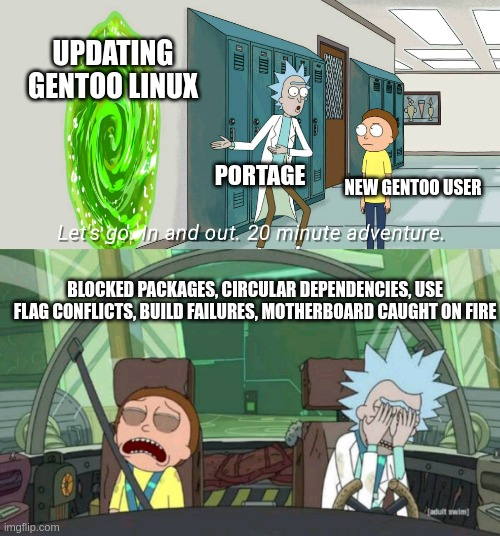
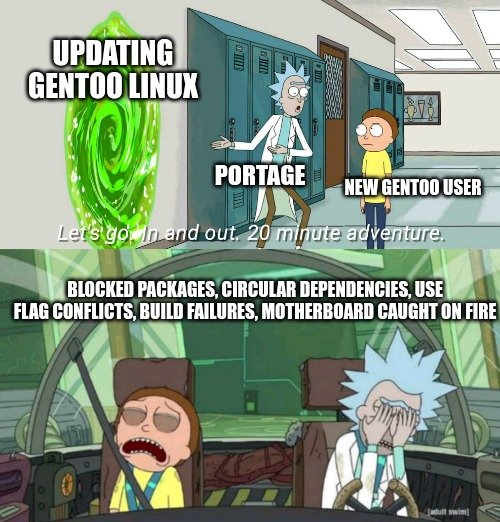
gsoc2023/gentoo_update.md: stylistic changes and typo fixes
Also cropped the meme a bit

diff --git a/content/blog/gsoc2023/gentoo_update_intro.md b/content/blog/gsoc2023/gentoo_update_intro.md
@@ -11,7 +11,7 @@ ShowToc: true
 ---
 
 ### Introduction
-`gentoo_udpate` (Github [repo](https://github.com/Lab-Brat/gentoo_update)) 
+`gentoo_update` (Github [repo](https://github.com/Lab-Brat/gentoo_update)) 
 is a tool that automatically updates Gentoo Linux.  
 
 **Motivation**  
@@ -25,7 +25,7 @@ some tools that are commonly used during an upgrade:
 [
     eix, equery, emaint, euse, etc-update, dispatch-conf,  
     eselect, elogv, needrestart, eclean, eclean-kernel, 
-    qcheck, revdep-rebuild, glsa-check, layman 
+    qcheck, revdep-rebuild, glsa-check, layman
 ]
 ```
 
@@ -42,6 +42,7 @@ This project addresses both issues:
 1. complicated update process 
 2. potential security issues caused by the lack of regular upgrades
 
+&nbsp; 
 
 ### Functionality
 Here are some of the things that gentoo_update will be able to:
@@ -50,7 +51,7 @@ Here are some of the things that gentoo_update will be able to:
 * Detect and handle update errors.
 * Schedule updates.
 * Generate a post-update report and send it via email and/or IRC chat.
-* Send push notifications to a **mobile app**.  
+* Send push notifications to a mobile app.  
 
 The program comprises three core components: the updater, the parser, and the 
 notification sender. The updater is a Bash script that executes emerge to update 
@@ -58,24 +59,31 @@ the system and generates detailed logs for each action performed. Upon successfu
 completion of the updater, the parser reads the logs and compiles an update report. 
 The notification sender then dispatches this report to users.  
 
+&nbsp; 
 
 ### Usage
 At the moment `gentoo_update` can only install GLSA and `@world` updates and store 
 the output to a dedicated directory. It resides in [GURU](https://wiki.gentoo.org/wiki/Project:GURU) 
 overlay in [app-admin/gentoo_update](https://github.com/gentoo/guru/tree/master/app-admin/gentoo_update).  
 
-After enabling GURU overlay it can be installed via:
+After [enabling GURU overlay](https://wiki.gentoo.org/wiki/Project:GURU/Information_for_End_Users) 
+it can be installed via:
 ```bash
 emerge --ask app-admin/gentoo_update
 ```
 
-Here are some use cases:
-**Security update**
+&nbsp; 
+
+Here are some use cases:  
+**Security update**  
+Running command without specifying `--update-mode` will use `glsa-check` to install security patches.
 ```bash
 gentoo-update
 ```
 
-**@world update**
+&nbsp; 
+
+**@world update**  
 Run full system update, merge all new configuration files, restart all services that were 
 updated and display elogs.
 ```bash
@@ -84,8 +92,8 @@ gentoo-update --update-mode full --config-update-mode merge --daemon-restart y -
 
 update with `--keep-going` flag.
 ```
-gentoo-update --update-mode full --args  "keep-going=y"
+gentoo-update --update-mode full --args "keep-going=y"
 ```
 
-After an udpate a log file will be created in `/var/log/portage/gentoo_udpate/log_<timestamp>`.
+After an update a log file will be created in `/var/log/portage/gentoo_update/log_<timestamp>`.  
 
